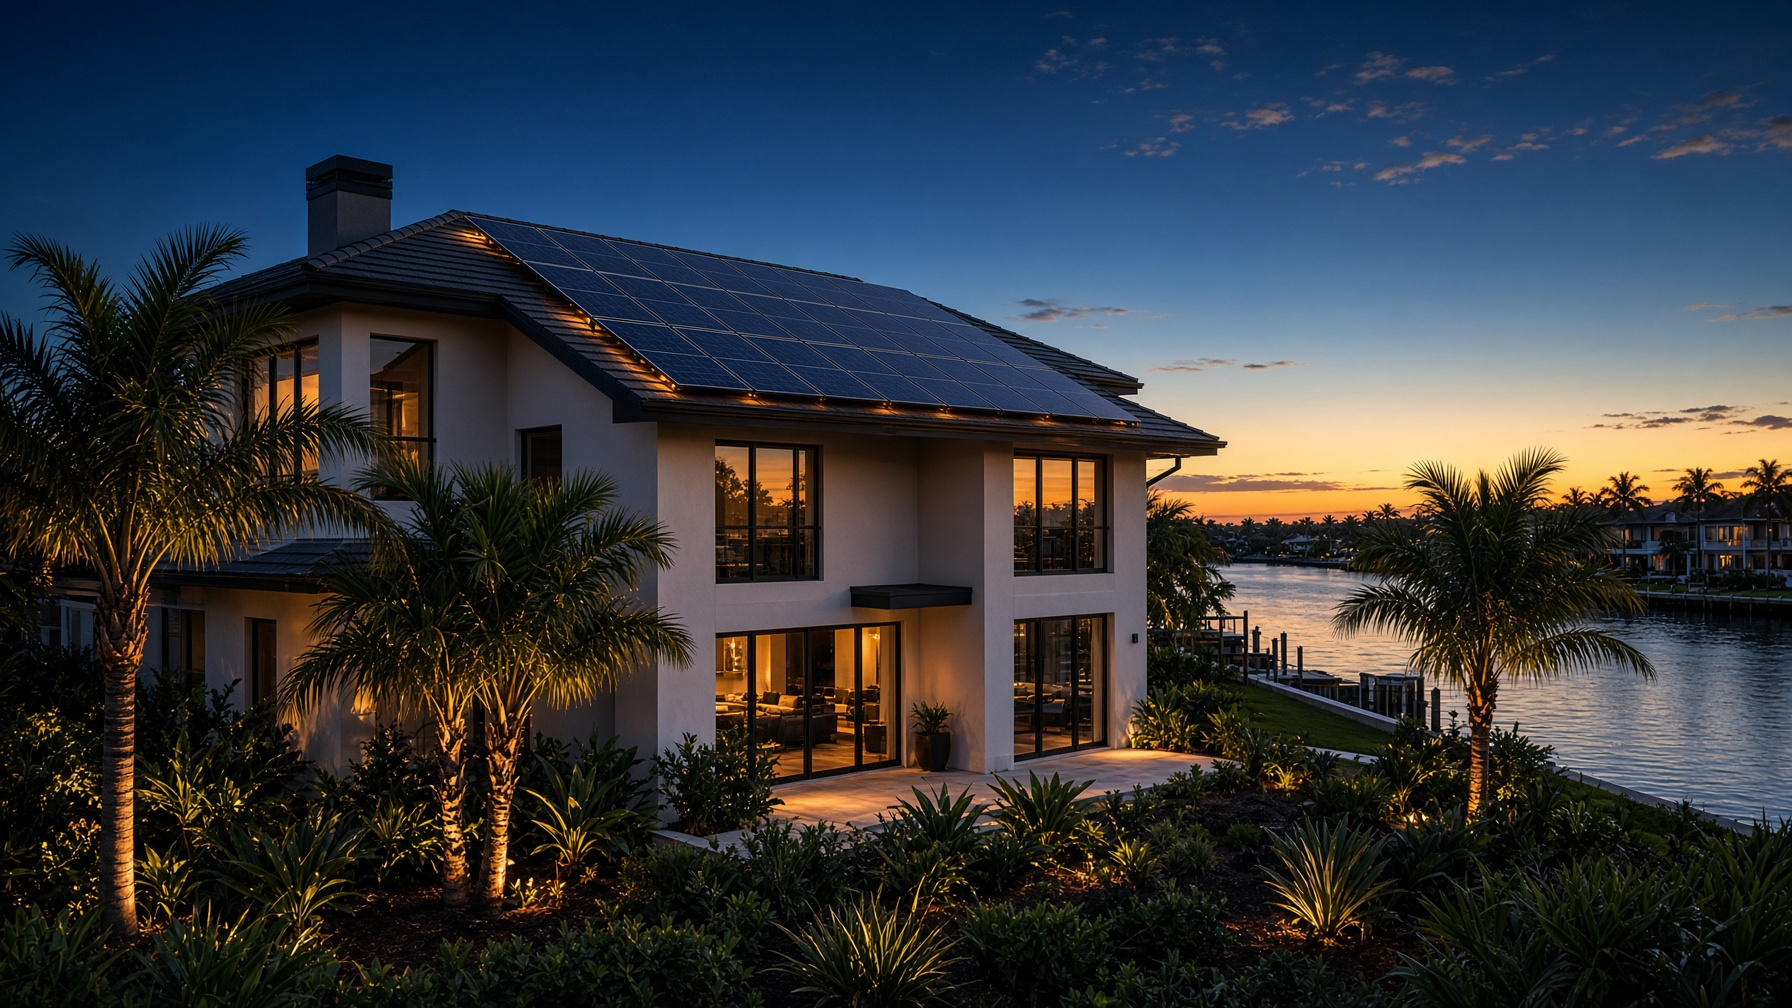
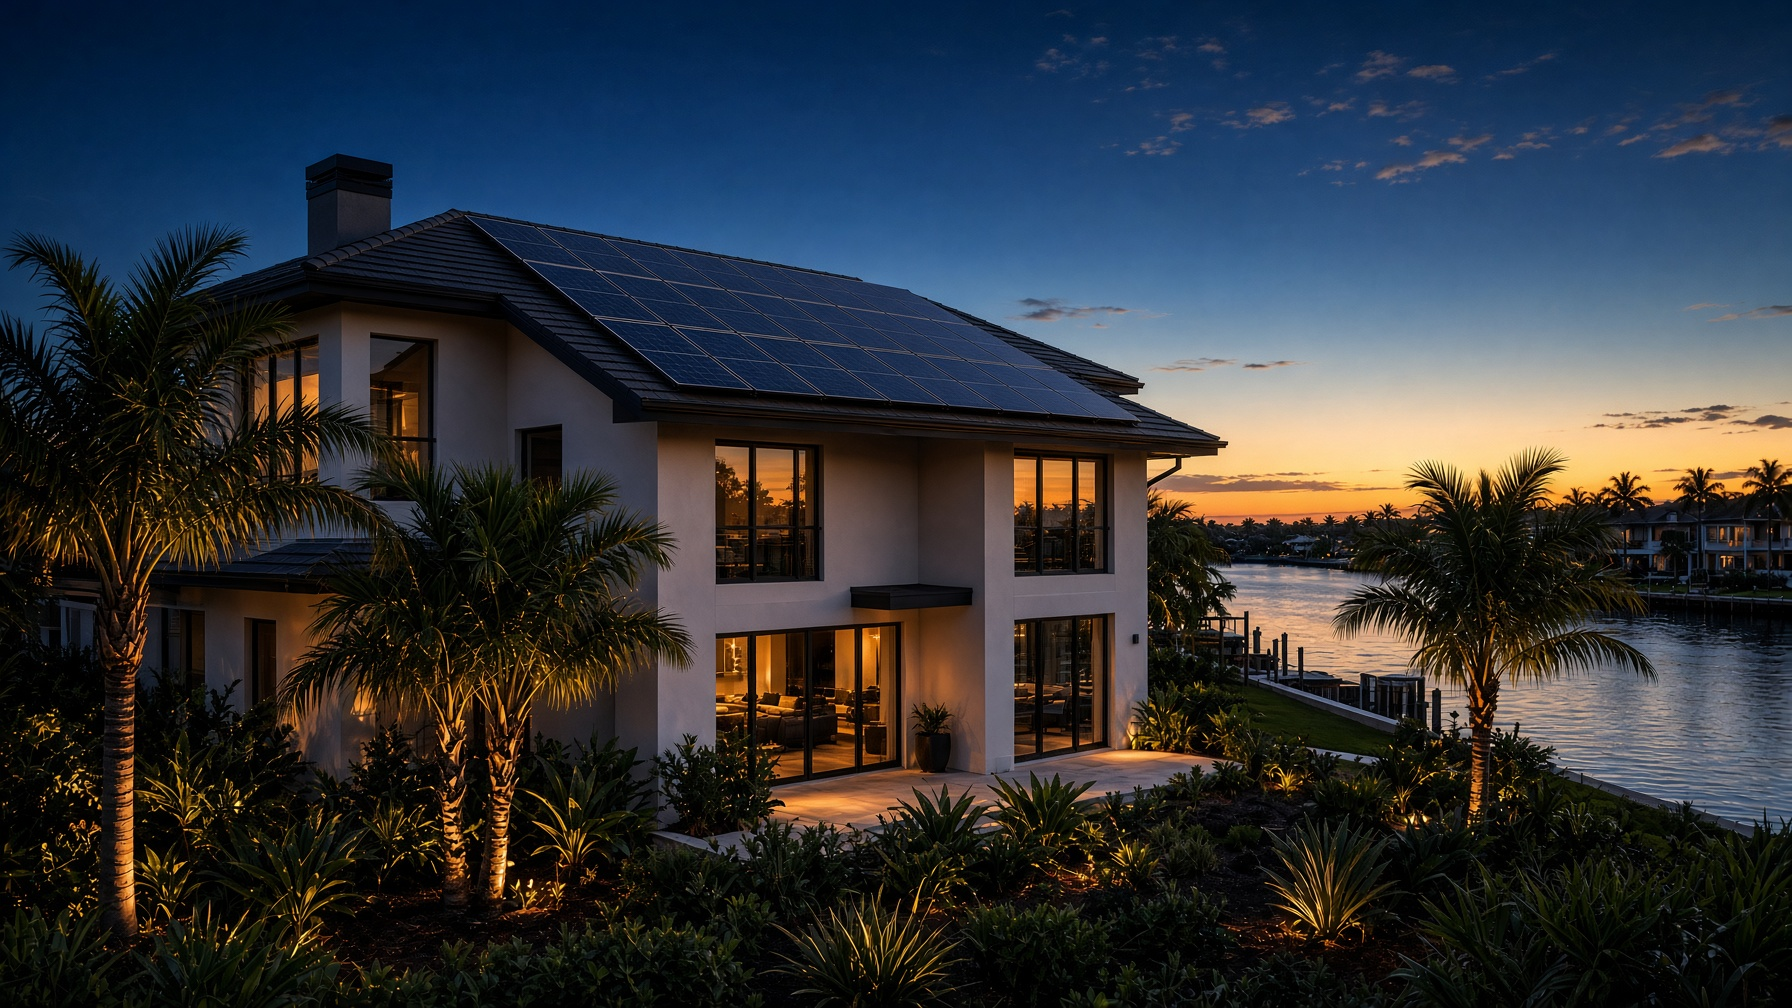
Remove the lit panel undersides from the company hero photo

diff --git a/src/routes/company.tsx b/src/routes/company.tsx
@@ -75,7 +75,7 @@ function CompanyPage() {
       />
       <section className="relative min-h-[28rem] overflow-hidden">
         <img
-          src="/images/waterfront-solar.jpg"
+          src="/images/waterfront-solar.jpg?v=2"
           alt="Southwest Florida waterfront home with a rooftop solar array at golden hour"
           className="absolute inset-0 h-full w-full object-cover"
         />
